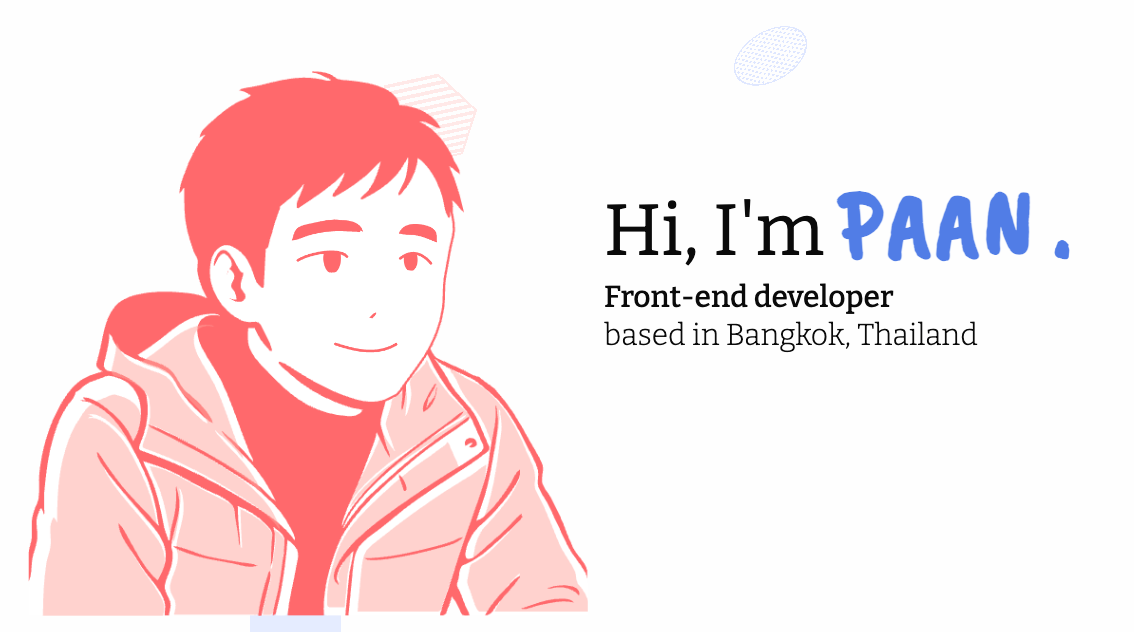
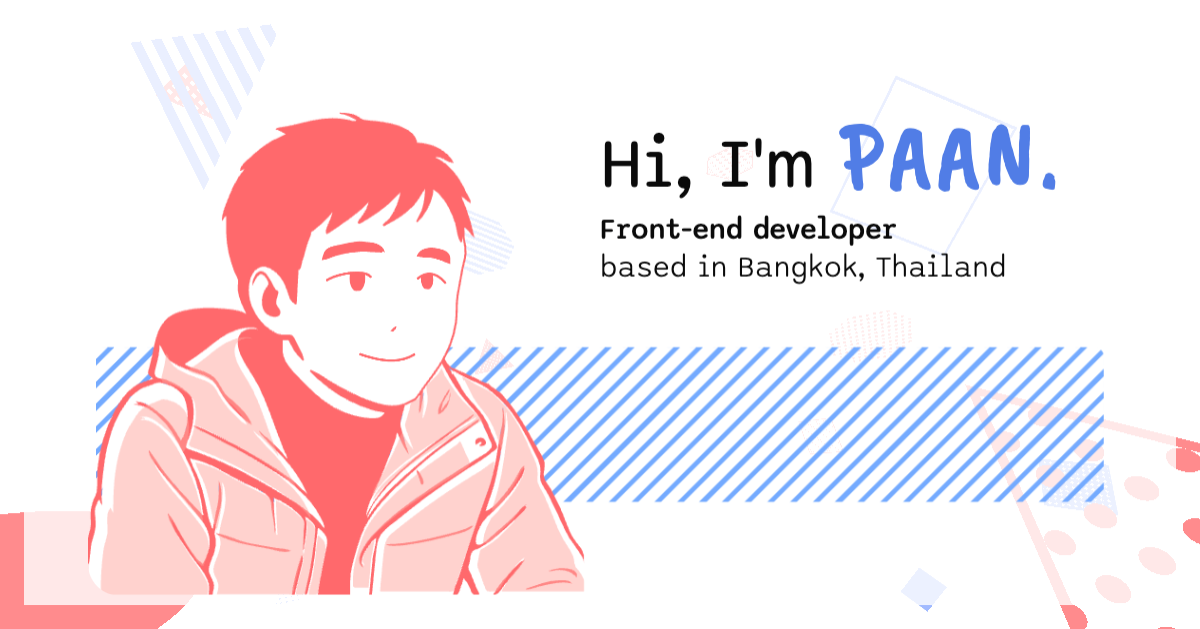
feat: updated og image, add noscript tag and adjusted layout

diff --git a/src/components/NameCard/NameCard.svelte b/src/components/NameCard/NameCard.svelte
@@ -77,7 +77,7 @@
       easing: backOut,
     }}
     class={cn(
-      'pointer-events-none fixed inset-4 z-50 will-change-transform lg:inset-6 print:hidden',
+      'noscript-hidden pointer-events-none fixed inset-4 z-50 will-change-transform lg:inset-6 print:hidden',
     )}
   >
     {#if appState.forceOpenHero}
@@ -91,7 +91,7 @@
     {/if}
     <div
       style:transform={contentTransform}
-      class="pointer-events-auto absolute top-[45%] left-[50%] container mx-auto aspect-[1/1.65] w-full transition-none will-change-transform transform-3d lg:aspect-[1.65] lg:max-h-none xl:max-w-5xl"
+      class="!max-w-unset pointer-events-auto absolute top-[45%] left-[50%] container mx-auto aspect-[1/1.65] w-full transition-none will-change-transform transform-3d lg:aspect-[1.65] lg:max-h-none xl:max-w-5xl"
     >
       <Content
         bind:isOpen={appState.isOpenNameCard}

diff --git a/src/modules/main/components/Chat/messages/greeting.svelte b/src/modules/main/components/Chat/messages/greeting.svelte
@@ -12,7 +12,7 @@
 </script>
 
 {#snippet handwaving()}
-  <span class="hand-waving inline-block origin-bottom-right"> 👋 </span>
+  <span class="hand-waving inline-block"> 👋 </span>
 {/snippet}
 
 {#snippet hello()}
@@ -39,15 +39,3 @@
     ar... Can you open this with your desktop?
   </span>
 {/snippet}
-
-<style>
-  :global(.hand-waving) {
-    will-change: transform, transform-origin;
-    animation-duration: var(--tw-duration, 1s);
-    animation-iteration-count: infinite;
-    animation-fill-mode: forwards;
-    animation-direction: alternate;
-    animation-timing-function: ease-in-out;
-    animation-name: handwaving;
-  }
-</style>

diff --git a/src/components/Noscript/Noscript.svelte b/src/components/Noscript/Noscript.svelte
@@ -1,0 +1,21 @@
+<noscript>
+  <div
+    class="fixed inset-0 z-[1000] flex flex-col items-center justify-center gap-8 bg-white"
+  >
+    <h1 class="font-handwritting-heading">
+      Hey! <span class="hand-waving inline-block">👋</span>
+    </h1>
+    <p class="text-center">
+      This site is best viewed with Javascript. If you are unable to turn on
+      Javascript,
+      <br />
+      please visit
+      <a
+        class="actionable text-primary-foreground underline transition-opacity duration-200"
+        href="/documents/resume"
+      >
+        resume page</a
+      >.
+    </p>
+  </div>
+</noscript>

diff --git a/src/app.css b/src/app.css
@@ -343,6 +343,17 @@
     --outline-color: white;
     -webkit-text-stroke: var(--outline-width) var(--outline-color);
   }
+
+  .hand-waving {
+    will-change: transform, transform-origin;
+    animation-duration: var(--tw-duration, 1s);
+    animation-iteration-count: infinite;
+    animation-fill-mode: forwards;
+    animation-direction: alternate;
+    animation-timing-function: ease-in-out;
+    animation-name: handwaving;
+    transform-origin: bottom right;
+  }
 }
 
 #three-perf-ui {

diff --git a/src/modules/main/pages/HomePage/sections/Works/WorkItem.svelte b/src/modules/main/pages/HomePage/sections/Works/WorkItem.svelte
@@ -36,7 +36,7 @@
     </h3>
 
     {#if description}
-      <p class="leading-normal">
+      <p class="text-center leading-normal md:text-left">
         {#if typeof description === 'string'}
           <!-- eslint-disable-next-line  svelte/no-at-html-tags -->
           {@html description}

diff --git a/src/app.html b/src/app.html
@@ -19,4 +19,11 @@
   <body data-sveltekit-preload-data="hover">
     <div style="display: contents">%sveltekit.body%</div>
   </body>
+  <noscript>
+    <style>
+      .noscript-hidden {
+        display: none;
+      }
+    </style>
+  </noscript>
 </html>

diff --git a/src/routes/archives/+layout.svelte b/src/routes/archives/+layout.svelte
@@ -1,5 +1,6 @@
 <script lang="ts">
   import { Footer } from '@/components/Footer'
+  import { Noscript } from '@/components/Noscript'
 
   let { children } = $props()
 </script>
@@ -7,3 +8,4 @@
 {@render children()}
 
 <Footer />
+<Noscript />

diff --git a/src/routes/+page.svelte b/src/routes/+page.svelte
@@ -1,5 +1,7 @@
 <script lang="ts">
+  import { Noscript } from '@/components/Noscript'
   import { HomePage } from '@/modules/main/pages/HomePage'
 </script>
 
 <HomePage />
+<Noscript />

diff --git a/src/components/Noscript/index.ts b/src/components/Noscript/index.ts
@@ -1,0 +1,1 @@
+export { default as Noscript } from './Noscript.svelte'
